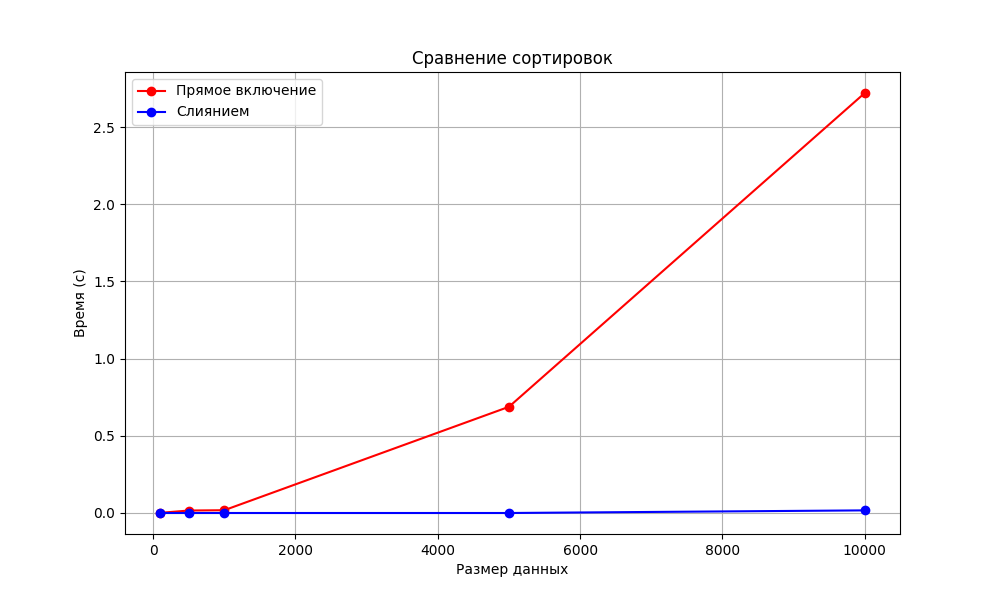
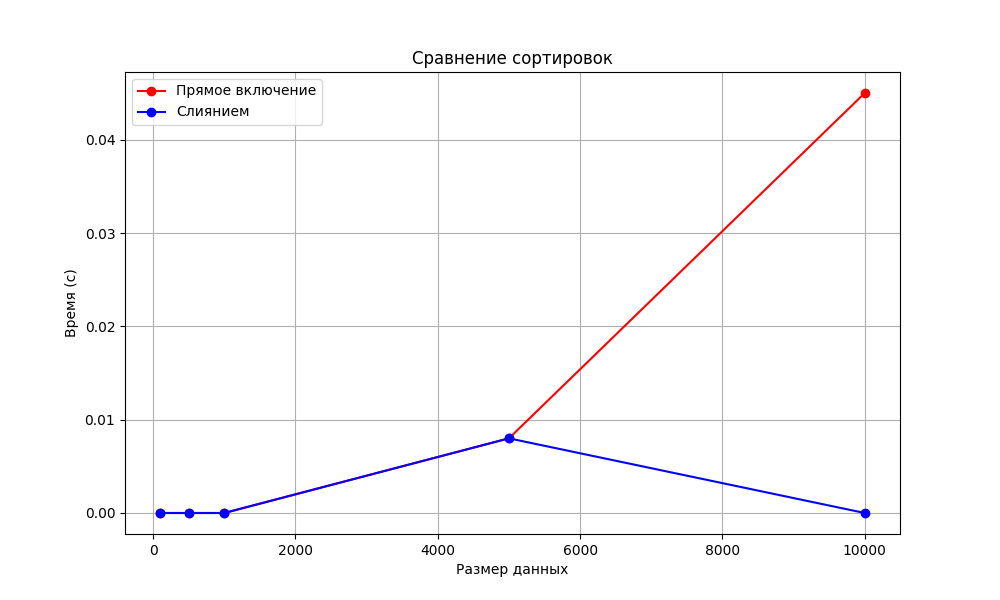
меняю график

diff --git a/create_test_files.py b/create_test_files.py
@@ -1,33 +1,33 @@
 import random
 
-# 1. smallest.txt - 100 чисел
+# 1. smallest.txt - 10 чисел
 with open("smallest.txt", "w") as f:
-    numbers = [random.randint(1, 10000) for _ in range(100)]
+    numbers = [random.randint(1, 1000) for _ in range(10)]
     f.write(" ".join(str(x) for x in numbers))
 
-# 2. small.txt - 500 чисел
+# 2. small.txt - 50 чисел
 with open("small.txt", "w") as f:
-    numbers = [random.randint(1, 10000) for _ in range(500)]
+    numbers = [random.randint(1, 1000) for _ in range(50)]
     f.write(" ".join(str(x) for x in numbers))
 
-# 3. medium.txt - 1000 чисел
+# 3. medium.txt - 100 чисел
 with open("medium.txt", "w") as f:
-    numbers = [random.randint(1, 10000) for _ in range(1000)]
+    numbers = [random.randint(1, 1000) for _ in range(100)]
     f.write(" ".join(str(x) for x in numbers))
 
-# 4. big.txt - 5000 чисел
+# 4. big.txt - 500 чисел
 with open("big.txt", "w") as f:
-    numbers = [random.randint(1, 10000) for _ in range(5000)]
+    numbers = [random.randint(1, 1000) for _ in range(500)]
     f.write(" ".join(str(x) for x in numbers))
 
-# 5. biggest.txt - 10000 чисел
+# 5. biggest.txt - 1000 чисел
 with open("biggest.txt", "w") as f:
-    numbers = [random.randint(1, 10000) for _ in range(10000)]
+    numbers = [random.randint(1, 1000) for _ in range(1000)]
     f.write(" ".join(str(x) for x in numbers))
 
 print("Файлы созданы:")
-print("- smallest.txt (100 чисел)")
-print("- small.txt (500 чисел)")
-print("- medium.txt (1000 чисел)")
-print("- big.txt (5000 чисел)")
-print("- biggest.txt (10000 чисел)")
+print("- smallest.txt (10 чисел)")
+print("- small.txt (50 чисел)")
+print("- medium.txt (100 чисел)")
+print("- big.txt (500 чисел)")
+print("- biggest.txt (1000 чисел)")

diff --git a/sorting.h b/sorting.h
@@ -7,5 +7,6 @@
 void insertion_sort_stack(Elem **Top);
 void merge_sort_stack(Elem **Top);
 void compare_sorting_methods();
+void split_stack(Elem *Top, Elem **left, Elem **right);
 
 #endif
